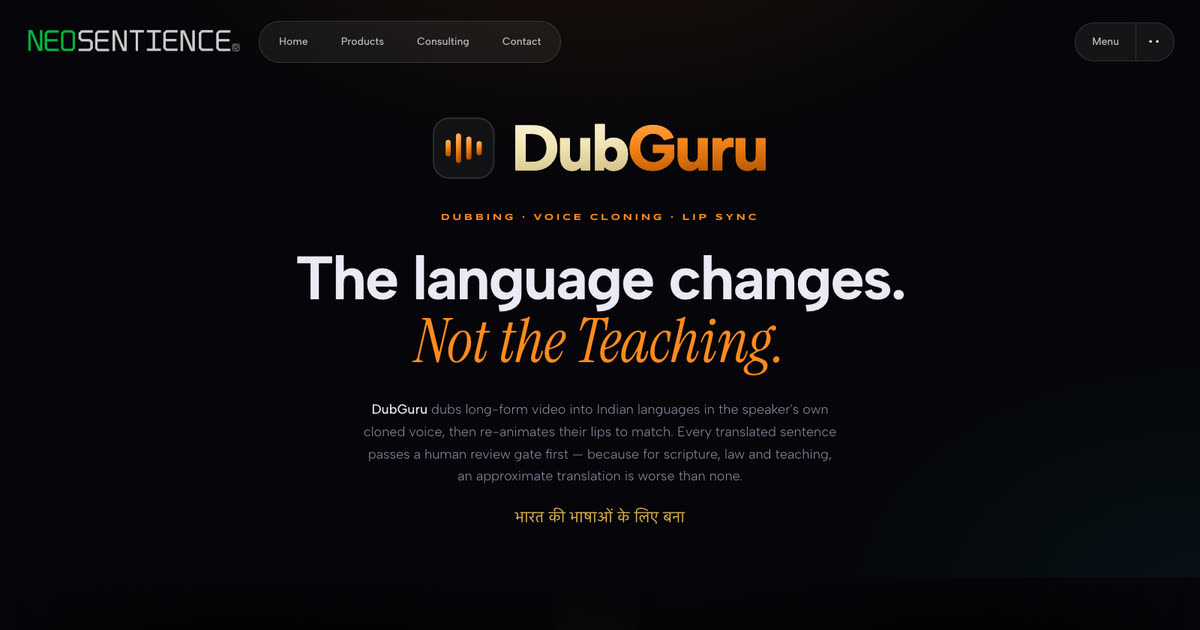
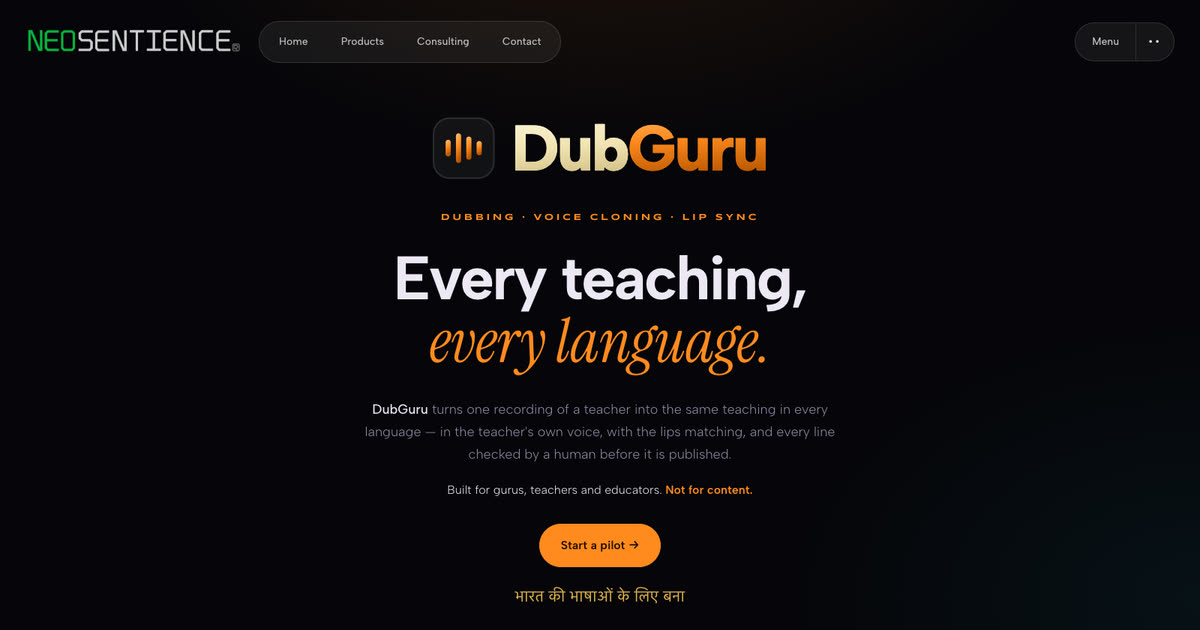
DubGuru: rewrite page to the new strategy — teaching-first positioning, problem, five promises, who it is for, four steps, trust, pilot CTA

diff --git a/dubguru.html b/dubguru.html
@@ -9,24 +9,24 @@
 <link rel="icon" type="image/png" sizes="192x192" href="favicon-192.png">
 <link rel="apple-touch-icon" sizes="180x180" href="apple-touch-icon.png">
 
-<meta name="description" content="DubGuru dubs long-form discourse, lectures and courses into Indian languages in the speaker’s own cloned voice, re-animates their lips to match, and never re-voices chanted Sanskrit.">
+<meta name="description" content="DubGuru turns one recording of a teacher into the same teaching in every language — in the teacher’s own voice, lips matching, every line checked by a human before it is published.">
 <!-- social preview -->
 <meta property="og:type" content="website">
 <meta property="og:site_name" content="Neosentience">
-<meta property="og:title" content="DubGuru — The teacher's voice, in every language">
-<meta property="og:description" content="DubGuru dubs long-form discourse, lectures and courses into Indian languages in the speaker’s own cloned voice, re-animates their lips to match, and never re-voices chanted Sanskrit.">
+<meta property="og:title" content="DubGuru — Every teaching, every language">
+<meta property="og:description" content="DubGuru turns one recording of a teacher into the same teaching in every language — in the teacher’s own voice, lips matching, every line checked by a human before it is published.">
 <meta property="og:url" content="https://neosentience.in/dubguru.html">
 <meta property="og:image" content="https://neosentience.in/wall-assets/og-dubguru.jpg">
 <meta property="og:image:secure_url" content="https://neosentience.in/wall-assets/og-dubguru.jpg">
 <meta property="og:image:type" content="image/jpeg">
 <meta property="og:image:width" content="1200">
 <meta property="og:image:height" content="630">
-<meta property="og:image:alt" content="DubGuru — The teacher's voice, in every language">
+<meta property="og:image:alt" content="DubGuru — Every teaching, every language">
 <meta name="twitter:card" content="summary_large_image">
-<meta name="twitter:title" content="DubGuru — The teacher's voice, in every language">
-<meta name="twitter:description" content="DubGuru dubs long-form discourse, lectures and courses into Indian languages in the speaker’s own cloned voice, re-animates their lips to match, and never re-voices chanted Sanskrit.">
+<meta name="twitter:title" content="DubGuru — Every teaching, every language">
+<meta name="twitter:description" content="DubGuru turns one recording of a teacher into the same teaching in every language — in the teacher’s own voice, lips matching, every line checked by a human before it is published.">
 <meta name="twitter:image" content="https://neosentience.in/wall-assets/og-dubguru.jpg">
-<title>DubGuru — The teacher's voice, in every language</title>
+<title>DubGuru — Every teaching, every language</title>
 
 <link rel="preconnect" href="https://fonts.googleapis.com">
 <link rel="preconnect" href="https://fonts.gstatic.com" crossorigin>
@@ -336,6 +336,14 @@ footer .fmeta a:hover{color:#fff}
 .tog{width:30px;height:16px;border-radius:999px;background:var(--acc);position:relative;flex:none}
 .tog::after{content:"";position:absolute;right:2px;top:2px;width:12px;height:12px;border-radius:50%;background:#1f0d00}
 @media(max-width:820px){.feats{grid-template-columns:1fr}.feat{padding:24px 20px}.lock-track{flex-direction:column}.lock-seg{height:40px;flex:none!important}.lock-sub{align-items:flex-start;flex-direction:column;gap:6px}.dict-row{grid-template-columns:1fr 1fr;grid-template-areas:"k v" "x x"}.dict-x{grid-area:x;text-align:left}.lock-seg{font-size:9.5px;letter-spacing:.06em}}
+.hero-note{margin-top:20px;font-size:16px;line-height:1.6;color:var(--ink)}
+.hero-note b{color:var(--acc);font-weight:600}
+.hero-cta{margin-top:32px}
+.diff.wide{grid-column:1/-1}
+.pipe.four{grid-template-columns:repeat(4,1fr)}
+.note{margin:28px auto 0;font-size:14px;line-height:1.7;color:var(--ink-dim);max-width:640px;text-align:center}
+.note b{color:var(--ink);font-weight:500}
+@media(max-width:820px){.pipe.four{grid-template-columns:repeat(2,1fr)}.diff.wide{grid-column:auto}}
 /* top bar */
 .topbar{position:absolute;top:0;left:0;right:0;z-index:100;display:flex;justify-content:space-between;align-items:center;gap:32px;padding:28px 34px;background:none;border:0}
 .topbar .brand{display:flex;align-items:center;gap:22px}
@@ -406,14 +414,17 @@ footer .fmeta a:hover{color:#fff}
 
   <div class="pill"><span class="dot"></span>Dubbing &middot; Voice cloning &middot; Lip sync</div>
 
-  <h1>The language changes. <em>Not the Teaching.</em></h1>
+  <h1>Every teaching, <em>every language.</em></h1>
 
   <p class="hero-sub">
-    <strong>DubGuru</strong> dubs long-form video into Indian languages in the speaker's own
-    cloned voice, then re-animates their lips to match. Every translated sentence passes a
-    human review gate first — because for scripture, law and teaching, an approximate
-    translation is worse than none.
+    <strong>DubGuru</strong> turns one recording of a teacher into the same teaching in every
+    language &mdash; in the teacher's own voice, with the lips matching, and every line checked
+    by a human before it is published.
   </p>
+
+  <p class="hero-note">Built for gurus, teachers and educators. <b>Not for content.</b></p>
+
+  <a class="btn hero-cta" href="mailto:hello@dubguru.in?subject=DubGuru%20pilot">Start a pilot &rarr;</a>
 
   <div class="devanagari">भारत की भाषाओं के लिए बना</div>
 </section>
@@ -424,6 +435,56 @@ footer .fmeta a:hover{color:#fff}
        alt="An acharya mid-discourse, seated before a small audience"
        width="2400" height="1018" loading="lazy" decoding="async">
 </figure>
+
+<!-- THE PROBLEM -->
+<section class="blk">
+  <div class="wrap">
+    <div class="eyebrow reveal">The problem</div>
+    <h2 class="reveal">Your teaching stops <em>where your language stops.</em></h2>
+    <p class="lead reveal">
+      A satsang in Hindi. A physics lecture in Hinglish. A Gita series in Malayalam. The students
+      and followers who would benefit most are often the ones who cannot follow the language it was
+      taught in. Auto-dubbing tools translate the words and lose the teacher: a stranger's voice,
+      a sanitised script, a mouth that does not move with the sound.
+    </p>
+  </div>
+</section>
+
+<!-- WHAT DUBGURU DOES -->
+<section class="blk">
+  <div class="wrap">
+    <div class="eyebrow reveal">What DubGuru does</div>
+    <h2 class="reveal">The same teacher. The same teaching. <em>Now in Tamil, Bengali, English, Telugu…</em></h2>
+
+    <div class="diffs reveal">
+      <div class="diff">
+        <div class="diff-t">Your own voice</div>
+        <h4>The teacher they already know</h4>
+        <p>Followers hear the teacher, <b>not a substitute</b>. Emphasis, pauses and tone carry across.</p>
+      </div>
+      <div class="diff">
+        <div class="diff-t">Faithful words</div>
+        <h4>Rendered the way you render them</h4>
+        <p>Your names, terms, titles and scriptural words are rendered the way you render them. <b>Chants and recitations stay in the original voice</b>, never re-voiced.</p>
+      </div>
+      <div class="diff">
+        <div class="diff-t">Lips that match</div>
+        <h4>The picture follows the new language</h4>
+        <p>Shot by shot &mdash; and your <b>audience and cutaway shots stay exactly as filmed</b>.</p>
+      </div>
+      <div class="diff">
+        <div class="diff-t">Checked before it goes out</div>
+        <h4>Nothing publishes unverified</h4>
+        <p>Nothing is published until your own experts have verified and sealed every line. Each language ships with a <b>Certificate of Fidelity</b>.</p>
+      </div>
+      <div class="diff wide">
+        <div class="diff-t">One upload, every language</div>
+        <h4>Ready for every place you publish</h4>
+        <p>A single video with selectable audio tracks for YouTube, plus separate lip-synced videos, subtitles and clips for Shorts and Reels.</p>
+      </div>
+    </div>
+  </div>
+</section>
 
 <!-- SCRIPTURE FEATURES -->
 <section class="blk" id="scripture">
@@ -466,109 +527,105 @@ footer .fmeta a:hover{color:#fff}
   </div>
 </section>
 
-<!-- PIPELINE -->
-<section class="blk">
-  <div class="wrap">
-    <div class="eyebrow reveal">The pipeline</div>
-    <h2 class="reveal">Seven stages. <em>One of them is a person.</em></h2>
-
-    <div class="pipe reveal">
-      <div class="ps"><div class="ps-n">01</div><div class="ps-h">Extract audio</div></div>
-      <div class="ps"><div class="ps-n">02</div><div class="ps-h">Transcribe</div></div>
-      <div class="ps"><div class="ps-n">03</div><div class="ps-h">Translate</div></div>
-      <div class="ps gatestep"><div class="ps-n">04 · Gate</div><div class="ps-h">Human review</div></div>
-      <div class="ps"><div class="ps-n">05</div><div class="ps-h">Voice &mdash; cloned</div></div>
-      <div class="ps"><div class="ps-n">06</div><div class="ps-h">Assemble</div></div>
-      <div class="ps"><div class="ps-n">07</div><div class="ps-h">Lip sync</div></div>
-    </div>
-  </div>
-</section>
-
-<!-- DIFFERENTIATORS -->
-<section class="blk">
-  <div class="wrap">
-    <div class="eyebrow reveal">Why it exists</div>
-    <h2 class="reveal">Built for the work <em>everyone else skipped.</em></h2>
-
-    <div class="diffs reveal">
-      <div class="diff">
-        <div class="diff-t">Long form</div>
-        <h4>Hours, not clips</h4>
-        <p>Engineered for <b>25-hour course libraries</b> — resumable, per-segment, and re-voicing only what changed. The clip-oriented tools cap out at 26 minutes or drift after 90 seconds.</p>
-      </div>
-      <div class="diff">
-        <div class="diff-t">Their own voice</div>
-        <h4>The speaker, in another language</h4>
-        <p>A cloned voice carries the teacher's own timbre into the target language, so a congregation still hears <b>the person they know</b> — not a stock narrator.</p>
-      </div>
-      <div class="diff">
-        <div class="diff-t">Glossary</div>
-        <h4>Sacred terms stay fixed</h4>
-        <p>Deity names and doctrinal vocabulary are pinned to agreed renderings and enforced on every translation request, so terminology <b>never drifts between episodes</b>.</p>
-      </div>
-      <div class="diff">
-        <div class="diff-t">Indic-first</div>
-        <h4>Tuned for how Indian speech expands</h4>
-        <p>Danda-aware segmentation and silence-borrowing calibrated to Indic expansion ratios. When a line runs long, it is automatically re-tightened to fit its slot — or flagged for a human.</p>
-      </div>
-      <div class="diff">
-        <div class="diff-t">Ownership</div>
-        <h4>It can stay in the building</h4>
-        <p>Available as a self-hosted studio edition, where the voice model and the content <b>never leave the organisation</b> — the thing no cloud-only competitor can offer.</p>
-      </div>
-      <div class="diff">
-        <div class="diff-t">Honest pricing</div>
-        <h4>The cost, before you run it</h4>
-        <p>Per-minute cost shown on screen before a job starts, including the lip-sync estimate — chunks, speech seconds and vendor cost. <b>No credit obfuscation.</b></p>
-      </div>
-    </div>
-  </div>
-</section>
-
 <!-- LANGUAGES -->
 <section class="blk">
   <div class="wrap">
     <div class="eyebrow reveal">Languages</div>
-    <h2 class="reveal">The ones that <em>actually get spoken.</em></h2>
+    <h2 class="reveal">Indian languages first. <em>Then the world.</em></h2>
 
     <div class="langs reveal">
       <div class="lang live"><span>हि</span>Hindi</div>
-      <div class="lang live"><span>த</span>Tamil</div>
-      <div class="lang live"><span>తె</span>Telugu</div>
-      <div class="lang live"><span>ಕ</span>Kannada</div>
-      <div class="lang live"><span>മ</span>Malayalam</div>
-      <div class="lang live"><span>En</span>English</div>
       <div class="lang live"><span>বা</span>Bengali</div>
       <div class="lang live"><span>म</span>Marathi</div>
+      <div class="lang live"><span>తె</span>Telugu</div>
+      <div class="lang live"><span>த</span>Tamil</div>
       <div class="lang live"><span>ગુ</span>Gujarati</div>
-      <div class="lang live"><span>ਪੰ</span>Punjabi</div>
-      <div class="lang live"><span>ଓ</span>Odia</div>
       <div class="lang live"><span>اُر</span>Urdu</div>
+      <div class="lang live"><span>ಕ</span>Kannada</div>
+      <div class="lang live"><span>ଓ</span>Odia</div>
+      <div class="lang live"><span>മ</span>Malayalam</div>
+      <div class="lang live"><span>ਪੰ</span>Punjabi</div>
       <div class="lang live"><span>অ</span>Assamese</div>
+      <div class="lang live"><span>ने</span>Nepali</div>
     </div>
-
 
     <div class="foreign">
       <div class="foreign-h">And beyond India</div>
       <p>
-        The pipeline is not Indic-only — translation and voice cloning both work across
-        European and East Asian languages, so the same sermon, lecture or session can cross
-        into <b>English, Spanish, French, German, Portuguese, Arabic, Indonesian</b> and more.
-        The review gate works identically whichever language it is going into.
+        And <b>37 global languages</b> for followers and students abroad.
       </p>
     </div>
+  </div>
+</section>
+
+<!-- WHO IT IS FOR -->
+<section class="blk">
+  <div class="wrap">
+    <div class="eyebrow reveal">Who it is for</div>
+    <h2 class="reveal">Made for <em>people who teach.</em></h2>
+
+    <div class="diffs reveal">
+      <div class="diff">
+        <div class="diff-t">Gurus &amp; institutions</div>
+        <h4>A tradition, carried further</h4>
+        <p>Gurus, acharyas and institutions carrying a tradition to followers in <b>every state and every country</b>.</p>
+      </div>
+      <div class="diff">
+        <div class="diff-t">Tutors &amp; educators</div>
+        <h4>Every student, one faculty</h4>
+        <p>Lectures that could serve students in every language &mdash; <b>without a new faculty for each one</b>.</p>
+      </div>
+      <div class="diff wide">
+        <div class="diff-t">Scholars &amp; speakers</div>
+        <h4>A body of work that deserves a wider audience</h4>
+        <p>Years of recorded thought, opened to everyone who would want it.</p>
+      </div>
+    </div>
+  </div>
+</section>
+
+<!-- HOW IT WORKS -->
+<section class="blk">
+  <div class="wrap">
+    <div class="eyebrow reveal">How it works</div>
+    <h2 class="reveal">Four steps. <em>Then you publish.</em></h2>
+
+    <div class="pipe four reveal">
+      <div class="ps"><div class="ps-n">01</div><div class="ps-h">Share a recording</div></div>
+      <div class="ps"><div class="ps-n">02</div><div class="ps-h">Choose the languages</div></div>
+      <div class="ps gatestep"><div class="ps-n">03 &middot; Gate</div><div class="ps-h">Your reviewers check each line</div></div>
+      <div class="ps"><div class="ps-n">04</div><div class="ps-h">Receive the finished videos</div></div>
+    </div>
+
+    <p class="note reveal">
+      Simple plans, priced in rupees, with credits you can see before anything runs.
+      <b>No vendor accounts, no dollar bills, no surprises.</b>
+    </p>
+  </div>
+</section>
+
+<!-- TRUST -->
+<section class="blk">
+  <div class="wrap">
+    <div class="eyebrow reveal">Trust</div>
+    <h2 class="reveal">Your voice <em>is yours.</em></h2>
+    <p class="lead reveal">
+      Every voice is cloned only with the teacher's consent and verification, used only for the
+      teacher's own teachings, and <b>never shared, sold or trained on</b>. Your recordings stay
+      yours; delete them whenever you wish.
+    </p>
   </div>
 </section>
 
 <!-- CLOSE -->
 <section class="cta">
   <div class="wrap">
-    <h2 class="reveal">A translation someone <em>put their name to.</em></h2>
+    <h2 class="reveal">Teach once. <em>Reach everyone.</em></h2>
     <p class="reveal">
-      DubGuru is a Neosentience product, built for institutions where getting the words
-      right matters more than getting them fast.
+      Send us one recording and one language. We will send back the same teaching, in the
+      teacher's own voice &mdash; and you can judge for yourself.
     </p>
-    <a class="btn reveal" href="mailto:soham@neosentience.in">Talk to us &rarr;</a>
+    <a class="btn reveal" href="mailto:hello@dubguru.in?subject=DubGuru%20pilot">Request a pilot &rarr;</a>
   </div>
 </section>
 

diff --git a/index.html b/index.html
@@ -362,7 +362,7 @@ footer{padding:46px 0 60px}
         <div class="pcard-top"><span class="pcard-cat">Dubbing AI</span><span class="pcard-status">Built</span></div>
         <img src="dubguru-assets/dubguru-wordmark.svg" alt="DubGuru" class="pcard-logo lg" style="height:32px">
         <div class="tagline">The language changes. <span style="white-space:nowrap">Not the Teaching.</span></div>
-        <p>Dubs long-form video into Indian languages in the speaker's own cloned voice, then re-animates their lips to match. Chanted Sanskrit is never re-voiced: slokas and mantras stay in the guru's own recitation, with the meaning as a subtitle.</p>
+        <p>Turns one recording of a teacher into the same teaching in every language — in the teacher’s own voice, with the lips matching, and every line checked by a human before it is published.</p>
         <div class="pcard-foot"><span>Own product</span><span class="pcard-link">Product →</span></div>
       </a>
       <a class="pcard reveal" style="--c:var(--c-chatdj)" href="chat-dj.html">

diff --git a/neosentience.html b/neosentience.html
@@ -362,7 +362,7 @@ footer{padding:46px 0 60px}
         <div class="pcard-top"><span class="pcard-cat">Dubbing AI</span><span class="pcard-status">Built</span></div>
         <img src="dubguru-assets/dubguru-wordmark.svg" alt="DubGuru" class="pcard-logo lg" style="height:32px">
         <div class="tagline">The language changes. <span style="white-space:nowrap">Not the Teaching.</span></div>
-        <p>Dubs long-form video into Indian languages in the speaker's own cloned voice, then re-animates their lips to match. Chanted Sanskrit is never re-voiced: slokas and mantras stay in the guru's own recitation, with the meaning as a subtitle.</p>
+        <p>Turns one recording of a teacher into the same teaching in every language — in the teacher’s own voice, with the lips matching, and every line checked by a human before it is published.</p>
         <div class="pcard-foot"><span>Own product</span><span class="pcard-link">Product →</span></div>
       </a>
       <a class="pcard reveal" style="--c:var(--c-chatdj)" href="chat-dj.html">
